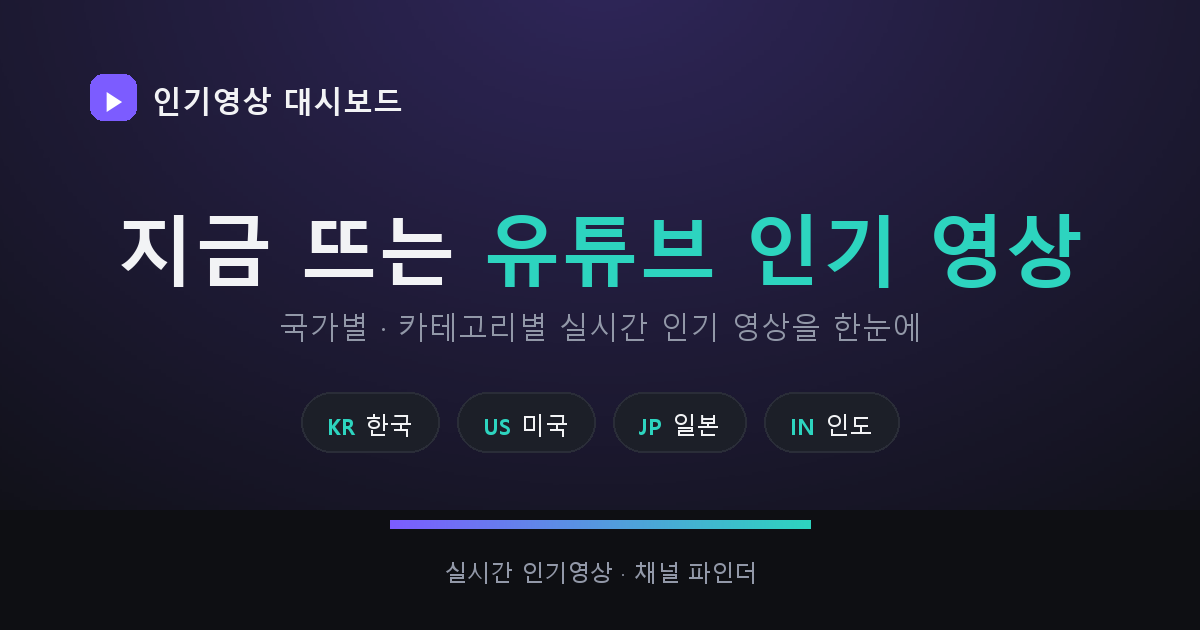
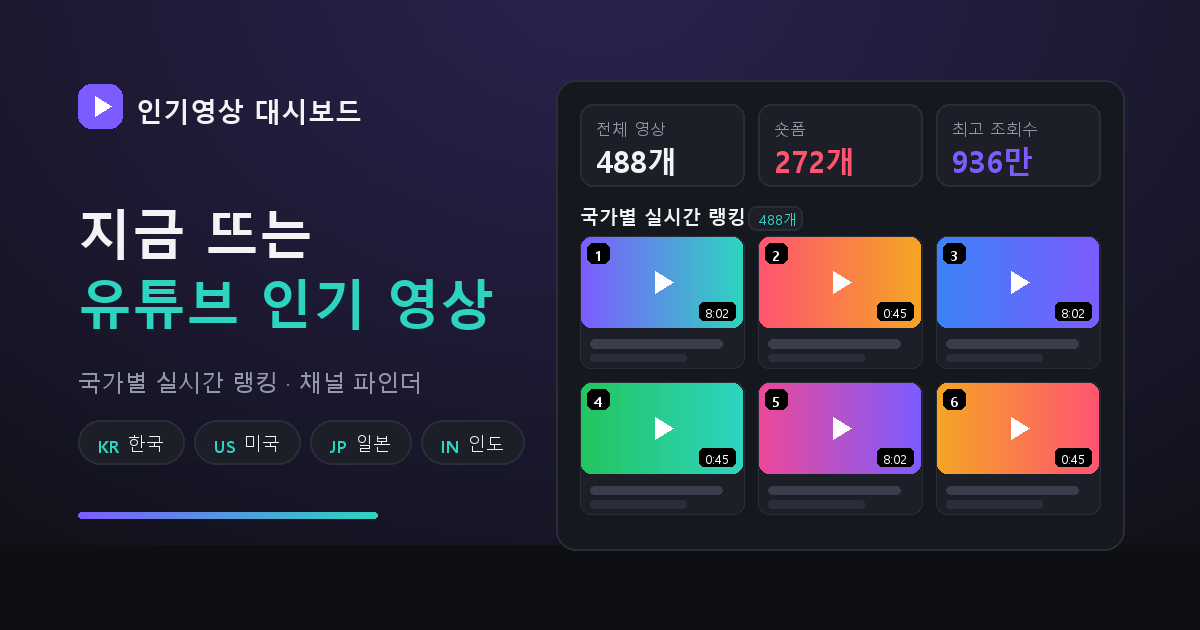
Redesign OG image as an actual dashboard preview: stat tiles, ranking header and a 3x2 grid of video cards with rank/duration badges, alongside the headline. Bump og:image version to bust scraper caches.

diff --git a/login.html b/login.html
@@ -15,7 +15,7 @@
 <meta property="og:title" content="로그인 · 인기영상 대시보드">
 <meta property="og:description" content="국가별 · 카테고리별 실시간 인기 영상을 한눈에. 인기 급상승 랭킹과 채널 파인더를 한 곳에서.">
 <meta property="og:url" content="https://delta-ten-68.vercel.app/login.html">
-<meta property="og:image" content="https://delta-ten-68.vercel.app/og-image.png">
+<meta property="og:image" content="https://delta-ten-68.vercel.app/og-image.png?v=2">
 <meta property="og:image:type" content="image/png">
 <meta property="og:image:width" content="1200">
 <meta property="og:image:height" content="630">
@@ -23,7 +23,7 @@
 <meta name="twitter:card" content="summary_large_image">
 <meta name="twitter:title" content="로그인 · 인기영상 대시보드">
 <meta name="twitter:description" content="국가별 · 카테고리별 실시간 인기 영상을 한눈에. 인기 급상승 랭킹과 채널 파인더를 한 곳에서.">
-<meta name="twitter:image" content="https://delta-ten-68.vercel.app/og-image.png">
+<meta name="twitter:image" content="https://delta-ten-68.vercel.app/og-image.png?v=2">
 <link rel="icon" type="image/png" href="/favicon.png">
 
 <style>

diff --git a/index.html b/index.html
@@ -15,7 +15,7 @@
 <meta property="og:title" content="인기영상 대시보드">
 <meta property="og:description" content="국가별 · 카테고리별 실시간 인기 영상을 한눈에. 인기 급상승 랭킹과 채널 파인더를 한 곳에서.">
 <meta property="og:url" content="https://delta-ten-68.vercel.app/">
-<meta property="og:image" content="https://delta-ten-68.vercel.app/og-image.png">
+<meta property="og:image" content="https://delta-ten-68.vercel.app/og-image.png?v=2">
 <meta property="og:image:type" content="image/png">
 <meta property="og:image:width" content="1200">
 <meta property="og:image:height" content="630">
@@ -23,7 +23,7 @@
 <meta name="twitter:card" content="summary_large_image">
 <meta name="twitter:title" content="인기영상 대시보드">
 <meta name="twitter:description" content="국가별 · 카테고리별 실시간 인기 영상을 한눈에. 인기 급상승 랭킹과 채널 파인더를 한 곳에서.">
-<meta name="twitter:image" content="https://delta-ten-68.vercel.app/og-image.png">
+<meta name="twitter:image" content="https://delta-ten-68.vercel.app/og-image.png?v=2">
 <link rel="icon" type="image/png" href="/favicon.png">
 
 <style>

diff --git a/tools/make-og.py b/tools/make-og.py
@@ -1,104 +1,157 @@
-# Generates og-image.png — the link preview card shown by KakaoTalk,
-# Slack, Facebook, X, etc. Re-run this if the site's branding changes:
-#   python tools/make-og.py
+# Generates og-image.png (link preview card) and favicon.png.
+# Re-run after branding changes:  python tools/make-og.py
 from PIL import Image, ImageDraw, ImageFont, ImageOps
 
 W, H = 1200, 630
-BG        = (14, 15, 19)
-PANEL     = (28, 31, 40)
-BORDER    = (42, 45, 56)
-TEXT      = (242, 243, 245)
-TEXT_DIM  = (146, 152, 168)
-ACCENT    = (124, 92, 255)   # purple
-ACCENT2   = (45, 212, 191)   # teal
-DANGER    = (255, 84, 112)
+BG       = (14, 15, 19)
+PANEL    = (22, 24, 31)
+PANEL2   = (28, 31, 40)
+BORDER   = (42, 45, 56)
+TEXT     = (242, 243, 245)
+DIM      = (146, 152, 168)
+ACCENT   = (124, 92, 255)
+ACCENT2  = (45, 212, 191)
+DANGER   = (255, 84, 112)
 
 F = "C:/Windows/Fonts/"
-def font(name, size):
-    return ImageFont.truetype(F + name, size)
-
 bold, reg = "malgunbd.ttf", "malgun.ttf"
+def font(n, s): return ImageFont.truetype(F + n, s)
 
 img = Image.new("RGB", (W, H), BG)
 
-# Soft purple glow behind the headline, mirroring the site's hero gradient.
-gw, gh = 1500, 1100
+# Hero glow, mirroring the site's radial gradient.
+gw, gh = 1600, 1150
 glow = ImageOps.invert(Image.radial_gradient("L")).resize((gw, gh))
 tint = Image.new("RGB", (gw, gh), ACCENT)
 layer = Image.new("RGB", (W, H), BG)
-layer.paste(tint, ((W - gw) // 2, -gh // 2 - 40))
+pos = ((W - gw) // 2, -gh // 2 - 30)
+layer.paste(tint, pos)
 mask = Image.new("L", (W, H), 0)
-mask.paste(glow, ((W - gw) // 2, -gh // 2 - 40))
-img = Image.composite(layer, img, mask.point(lambda v: int(v * 0.30)))
+mask.paste(glow, pos)
+img = Image.composite(layer, img, mask.point(lambda v: int(v * 0.26)))
 
 d = ImageDraw.Draw(img)
 
-def text_run(x, y, parts, f):
-    """Draw differently-coloured segments on one baseline; returns total width."""
-    for s, c in parts:
-        d.text((x, y), s, font=f, fill=c)
-        x += d.textlength(s, font=f)
-    return x
+def fit(text, name, size, max_w):
+    """Shrink the font until the text fits max_w."""
+    f = font(name, size)
+    while d.textlength(text, font=f) > max_w and size > 10:
+        size -= 2
+        f = font(name, size)
+    return f
 
-def run_width(parts, f):
-    return sum(d.textlength(s, font=f) for s, _ in parts)
+def grad_rect(box, c1, c2, radius=10, vertical=False):
+    """Rounded rect filled with a linear gradient."""
+    x0, y0, x1, y1 = [int(v) for v in box]
+    w, h = x1 - x0, y1 - y0
+    if w <= 0 or h <= 0: return
+    g = Image.new("RGB", (w, h))
+    gd = ImageDraw.Draw(g)
+    n = h if vertical else w
+    for i in range(n):
+        t = i / max(n - 1, 1)
+        c = tuple(round(c1[k] + (c2[k] - c1[k]) * t) for k in range(3))
+        if vertical: gd.line([(0, i), (w, i)], fill=c)
+        else:        gd.line([(i, 0), (i, h)], fill=c)
+    m = Image.new("L", (w, h), 0)
+    ImageDraw.Draw(m).rounded_rectangle([0, 0, w - 1, h - 1], radius=radius, fill=255)
+    img.paste(g, (x0, y0), m)
 
-# Brand row
-f_brand = font(bold, 30)
-bx = 90
-d.rounded_rectangle([bx, 74, bx + 46, 120], radius=13, fill=ACCENT)
-d.text((bx + 12, 82), "▶", font=font(bold, 24), fill=(255, 255, 255))
-d.text((bx + 62, 80), "인기영상 대시보드", font=f_brand, fill=TEXT)
+# ---------------- left column: brand + headline ----------------
+LX, LW = 78, 430
 
-# Headline
-f_h1 = font(bold, 78)
-line = [("지금 뜨는 ", TEXT), ("유튜브 인기 영상", ACCENT2)]
-text_run((W - run_width(line, f_h1)) / 2, 196, line, f_h1)
+d.rounded_rectangle([LX, 84, LX + 44, 128], radius=13, fill=ACCENT)
+d.polygon([(LX + 17, 96), (LX + 17, 116), (LX + 33, 106)], fill=(255, 255, 255))
+d.text((LX + 58, 92), "인기영상 대시보드", font=font(bold, 27), fill=TEXT)
 
-# Subhead
-f_sub = font(reg, 30)
-sub = "국가별 · 카테고리별 실시간 인기 영상을 한눈에"
-d.text(((W - d.textlength(sub, font=f_sub)) / 2, 306), sub, font=f_sub, fill=TEXT_DIM)
+f_h1 = fit("유튜브 인기 영상", bold, 62, LW)
+d.text((LX, 196), "지금 뜨는", font=f_h1, fill=TEXT)
+d.text((LX, 196 + f_h1.size + 16), "유튜브 인기 영상", font=f_h1, fill=ACCENT2)
 
-# Country pills
-f_pill_c = font(bold, 22)
-f_pill_l = font(reg, 24)
-pills = [("KR", "한국"), ("US", "미국"), ("JP", "일본"), ("IN", "인도")]
-pad_x, gap, ph = 26, 18, 60
-widths = [pad_x * 2 + d.textlength(c, font=f_pill_c) + 10 + d.textlength(l, font=f_pill_l)
-          for c, l in pills]
-x = (W - (sum(widths) + gap * (len(pills) - 1))) / 2
-y = 392
-for (code, label), w in zip(pills, widths):
-    d.rounded_rectangle([x, y, x + w, y + ph], radius=30, fill=PANEL, outline=BORDER, width=2)
-    cx = x + pad_x
-    d.text((cx, y + 19), code, font=f_pill_c, fill=ACCENT2)
-    cx += d.textlength(code, font=f_pill_c) + 10
-    d.text((cx, y + 16), label, font=f_pill_l, fill=TEXT)
-    x += w + gap
+f_sub = font(reg, 23)
+d.text((LX, 366), "국가별 실시간 랭킹 · 채널 파인더", font=f_sub, fill=DIM)
 
-# Bottom accent bar, purple -> teal
-bar_y, bar_h, bar_w = 520, 8, 420
-bar_x = (W - bar_w) / 2
-for i in range(bar_w):
-    t = i / (bar_w - 1)
-    col = tuple(round(ACCENT[k] + (ACCENT2[k] - ACCENT[k]) * t) for k in range(3))
-    d.rectangle([bar_x + i, bar_y, bar_x + i + 1, bar_y + bar_h], fill=col)
+# country pills
+f_pc, f_pl = font(bold, 17), font(reg, 18)
+x, y, ph = LX, 420, 44
+for code, label in [("KR", "한국"), ("US", "미국"), ("JP", "일본"), ("IN", "인도")]:
+    w = 20 + d.textlength(code, font=f_pc) + 8 + d.textlength(label, font=f_pl) + 20
+    d.rounded_rectangle([x, y, x + w, y + ph], radius=22, fill=PANEL2, outline=BORDER, width=2)
+    cx = x + 20
+    d.text((cx, y + 14), code, font=f_pc, fill=ACCENT2)
+    cx += d.textlength(code, font=f_pc) + 8
+    d.text((cx, y + 11), label, font=f_pl, fill=TEXT)
+    x += w + 10
 
-# Footer note
-f_foot = font(reg, 23)
-foot = "실시간 인기영상 · 채널 파인더"
-d.text(((W - d.textlength(foot, font=f_foot)) / 2, 556), foot, font=f_foot, fill=TEXT_DIM)
+# accent underline
+grad_rect([LX, 512, LX + 300, 519], ACCENT, ACCENT2, radius=4)
+
+# ---------------- right column: dashboard mockup ----------------
+PX0, PY0, PX1, PY1 = 556, 80, 1124, 550
+d.rounded_rectangle([PX0, PY0, PX1, PY1], radius=20, fill=PANEL, outline=BORDER, width=2)
+
+IX0, IX1 = PX0 + 24, PX1 - 24
+INNER_W = IX1 - IX0
+
+# stat tiles
+stats = [("전체 영상", "488개", TEXT), ("숏폼", "272개", DANGER), ("최고 조회수", "936만", ACCENT)]
+tw = (INNER_W - 2 * 14) / 3
+for i, (label, value, col) in enumerate(stats):
+    tx = IX0 + i * (tw + 14)
+    d.rounded_rectangle([tx, PY0 + 24, tx + tw, PY0 + 24 + 82], radius=13,
+                        fill=PANEL2, outline=BORDER, width=2)
+    d.text((tx + 16, PY0 + 37), label, font=font(reg, 16), fill=DIM)
+    d.text((tx + 16, PY0 + 60), value, font=font(bold, 30), fill=col)
+
+# section label
+d.text((IX0, PY0 + 124), "국가별 실시간 랭킹", font=font(bold, 19), fill=TEXT)
+d.rounded_rectangle([IX0 + 168, PY0 + 126, IX0 + 168 + 54, PY0 + 126 + 24],
+                    radius=8, fill=PANEL2, outline=BORDER, width=2)
+d.text((IX0 + 179, PY0 + 129), "488개", font=font(reg, 14), fill=ACCENT2)
+
+# video card grid — synthetic duotone "thumbnails"
+duos = [((124, 92, 255), (45, 212, 191)), ((255, 84, 112), (245, 165, 36)),
+        ((59, 130, 246), (124, 92, 255)), ((34, 197, 94), (45, 212, 191)),
+        ((236, 72, 153), (124, 92, 255)), ((245, 165, 36), (255, 84, 112))]
+cols, rows, gap = 3, 2, 14
+cw = (INNER_W - gap * (cols - 1)) / cols
+th = cw * 9 / 16
+ch = th + 40
+gy0 = PY0 + 156
+
+for i in range(cols * rows):
+    r, c = divmod(i, cols)
+    cx = IX0 + c * (cw + gap)
+    cy = gy0 + r * (ch + gap)
+    d.rounded_rectangle([cx, cy, cx + cw, cy + ch], radius=11, fill=PANEL2,
+                        outline=BORDER, width=1)
+    grad_rect([cx + 1, cy + 1, cx + cw - 1, cy + th], *duos[i], radius=10)
+
+    # play glyph on the thumbnail
+    px, py, s = cx + cw / 2, cy + th / 2, 11
+    d.polygon([(px - s * .6, py - s), (px - s * .6, py + s), (px + s, py)],
+              fill=(255, 255, 255, 230))
+    # rank badge
+    d.rounded_rectangle([cx + 7, cy + 7, cx + 29, cy + 27], radius=6, fill=(0, 0, 0))
+    d.text((cx + 14, cy + 9), str(i + 1), font=font(bold, 14), fill=(255, 255, 255))
+    # duration badge
+    dur = "0:45" if i % 2 else "8:02"
+    dw = d.textlength(dur, font=font(reg, 13)) + 12
+    d.rounded_rectangle([cx + cw - 9 - dw, cy + th - 26, cx + cw - 9, cy + th - 8],
+                        radius=5, fill=(0, 0, 0))
+    d.text((cx + cw - 3 - dw, cy + th - 25), dur, font=font(reg, 13), fill=(255, 255, 255))
+    # title / meta placeholder bars
+    d.rounded_rectangle([cx + 10, cy + th + 11, cx + cw - 22, cy + th + 20], radius=4, fill=(58, 62, 76))
+    d.rounded_rectangle([cx + 10, cy + th + 26, cx + cw - 58, cy + th + 33], radius=3, fill=(43, 46, 58))
 
 img.save("og-image.png", "PNG", optimize=True)
 print("wrote og-image.png", img.size)
 
-# --- favicon: small square mark reusing the same purple play badge ---
+# ---------------- favicon ----------------
 S = 128
 fav = Image.new("RGB", (S, S), BG)
 fd = ImageDraw.Draw(fav)
 fd.rounded_rectangle([8, 8, S - 8, S - 8], radius=28, fill=ACCENT)
-tri = [(48, 36), (48, 92), (94, 64)]
-fd.polygon(tri, fill=(255, 255, 255))
+fd.polygon([(48, 36), (48, 92), (94, 64)], fill=(255, 255, 255))
 fav.save("favicon.png", "PNG", optimize=True)
 print("wrote favicon.png", fav.size)
